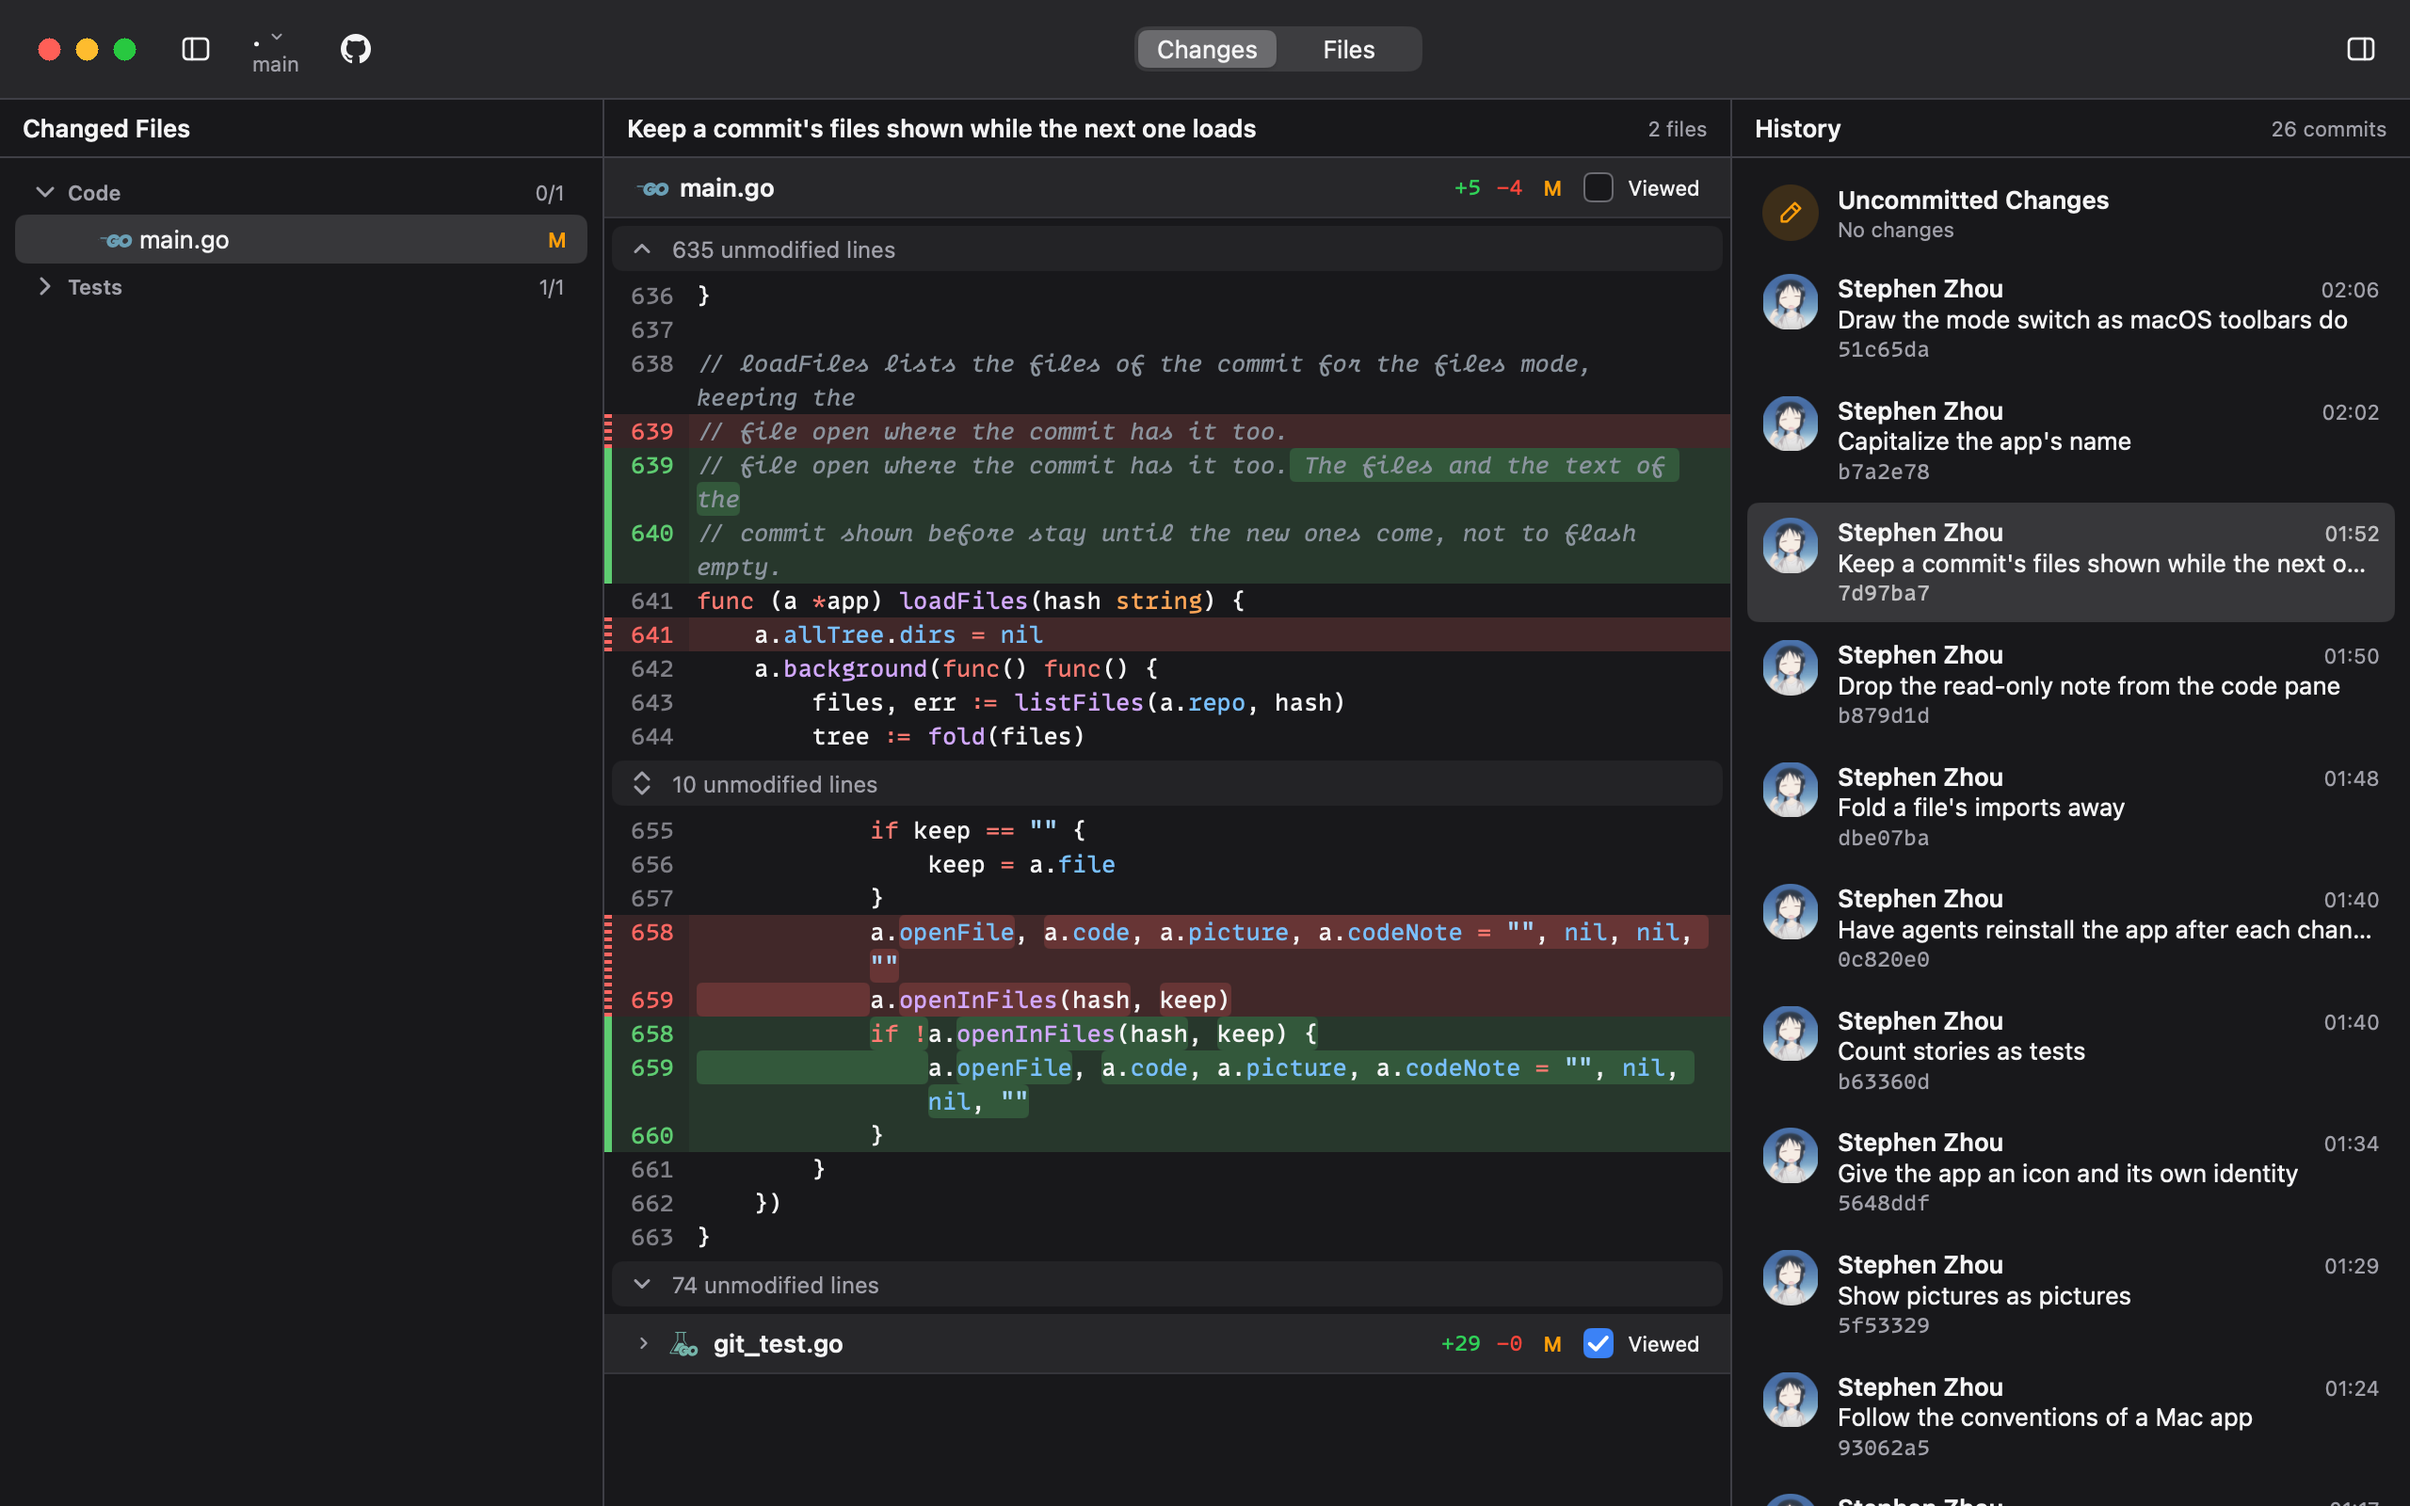
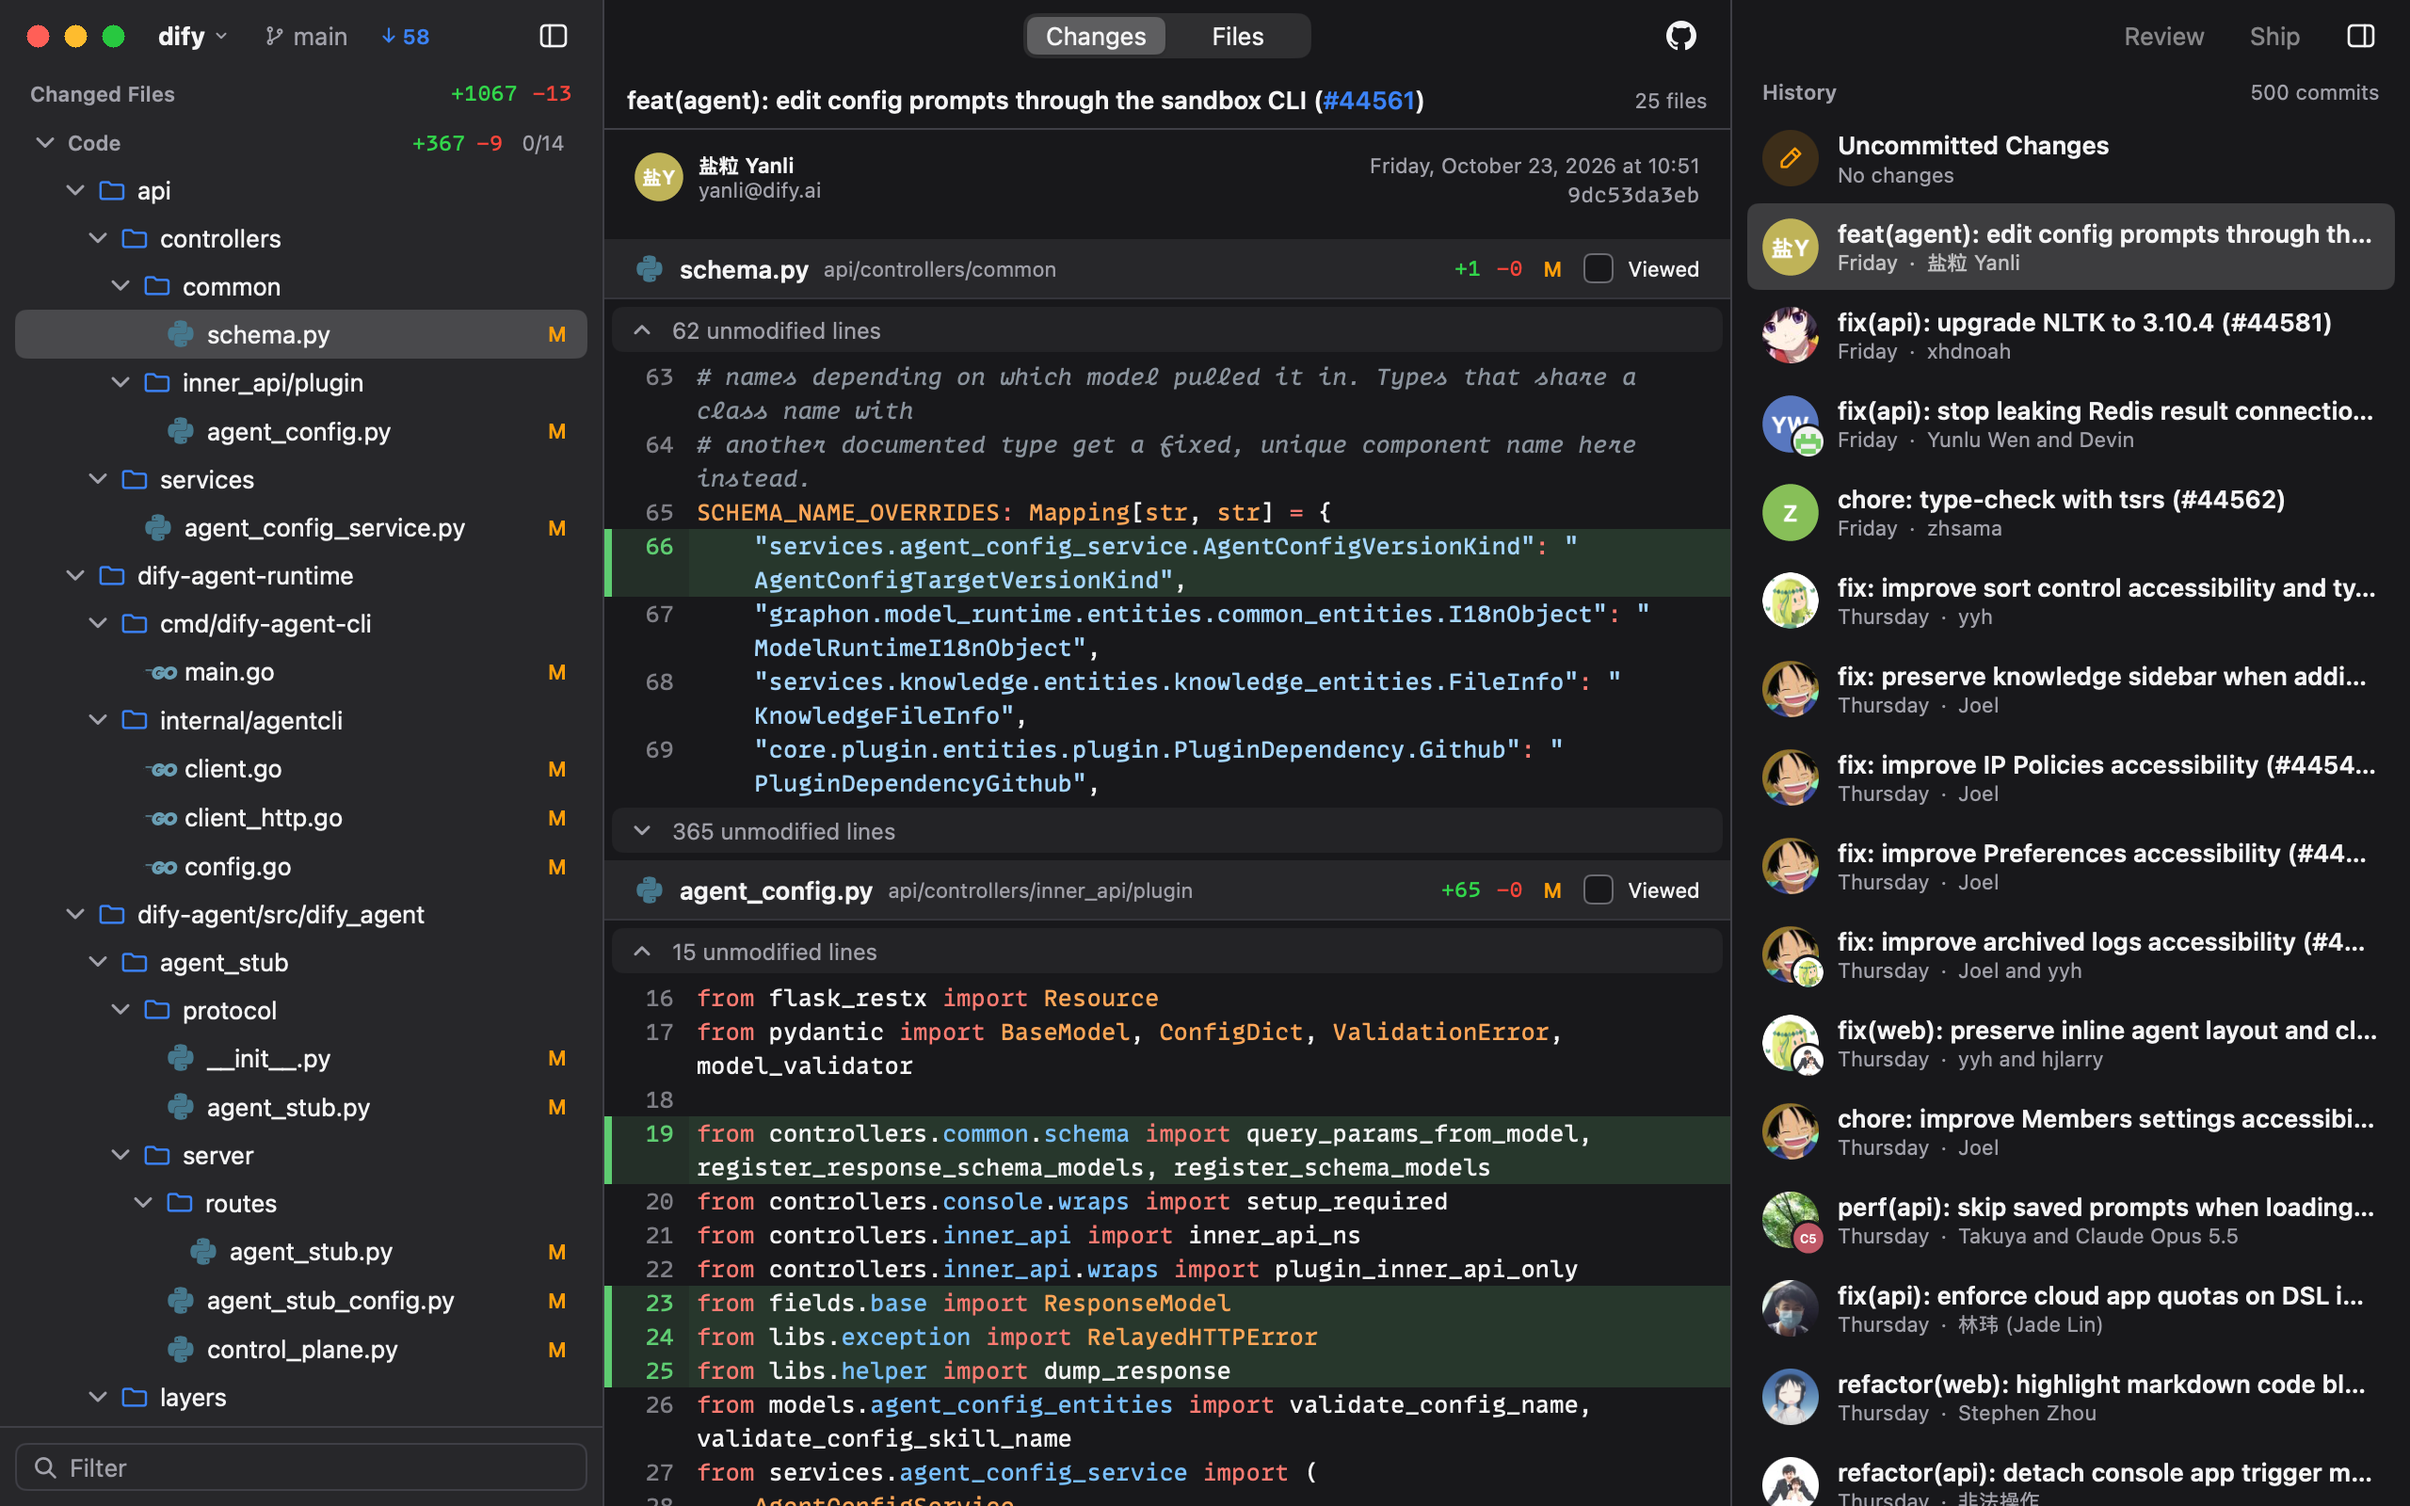
Refresh the README screenshots

diff --git a/README.md b/README.md
@@ -139,14 +139,14 @@ go tool mygo build
 CGO_ENABLED=0 go test ./...
 ```
 
-The screenshots above are drawn by `TestSnapshot` over this repository:
+The screenshots above are drawn by `TestSnapshot` over a clone of [Dify](https://github.com/langgenius/dify) with `main` at commit `9dc53da` ([#44561](https://github.com/langgenius/dify/pull/44561)), whose `origin` is the GitHub repository:
 
 ```bash
-PEEK_REPO=$PWD PEEK_OUT=$PWD/docs/changes PEEK_COMMIT=3 go test ./internal/app -run 'Snapshot$'
+PEEK_REPO=path/to/dify PEEK_OUT=$PWD/docs/changes PEEK_COMMIT=1 go test ./internal/app -run 'Snapshot$'
 ```
 
 ```bash
-PEEK_REPO=$PWD PEEK_OUT=$PWD/docs/files PEEK_MODE=files PEEK_COMMIT=1 PEEK_FILE=internal/app/app.go go test ./internal/app -run 'Snapshot$'
+PEEK_REPO=path/to/dify PEEK_OUT=$PWD/docs/files PEEK_MODE=files PEEK_COMMIT=1 PEEK_FILE=dify-agent-runtime/internal/agentcli/config.go go test ./internal/app -run 'Snapshot$'
 ```
 
 ## License
